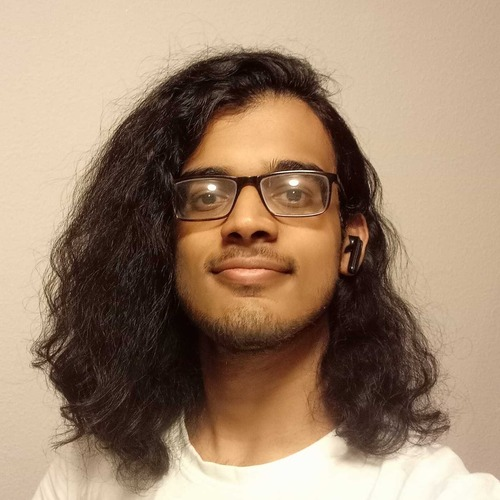
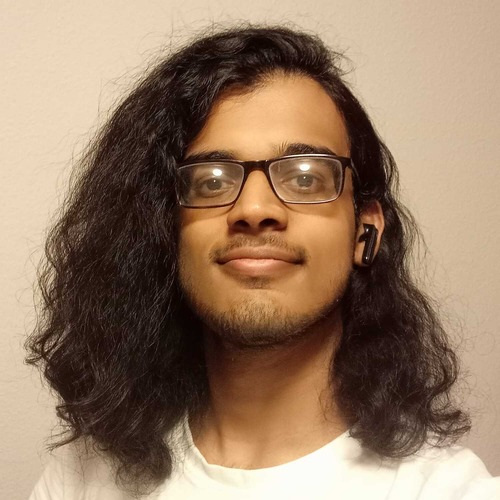
fix: Make about me section responsive

diff --git a/styles/style.css b/styles/style.css
@@ -66,15 +66,16 @@ main > section {
 }
 
 .about-me > .img-wrapper {
-  position: relative;
+  display: flex;
+  flex-direction: column;
 }
 
-.about-me > .img-wrapper > img {
+.about-me img {
   max-width: 400px;
   border-radius: 1rem;
 }
 
-.about-me > .img-wrapper > h1 {
+.about-me h1 {
   color: var(--secondary);
   text-align: right;
 }
@@ -123,4 +124,28 @@ main > section {
 
 .contact-me figcaption {
   text-align: end;
+}
+
+@media (max-width: 1000px) {
+  .about-me {
+    flex-direction: column;
+    padding-top: 1rem;
+  }
+
+  .about-me.diagonal::after {
+    transform: translateY(-25%) scaleY(150%) skewY(var(--skew-angle));
+  }
+
+  .about-me > .img-wrapper {
+    flex-direction: column-reverse;
+    padding: 1rem;
+  }
+
+  .about-me h1 {
+    text-align: center;
+  }
+
+  .about-me .card {
+    border-radius: 1rem;
+  }
 }

diff --git a/index.html b/index.html
@@ -20,7 +20,13 @@
     <main>
       <section class="about-me diagonal">
         <div class="img-wrapper">
-          <img src="./images/midhun.jpeg" alt="" />
+          <picture>
+            <source
+              srcset="./images/midhun_250w.jpeg"
+              media="(max-width:700px)"
+            />
+            <img src="./images/midhun.jpeg" alt="" />
+          </picture>
           <h1>Midhun Pradeep</h1>
         </div>
         <div class="card">
